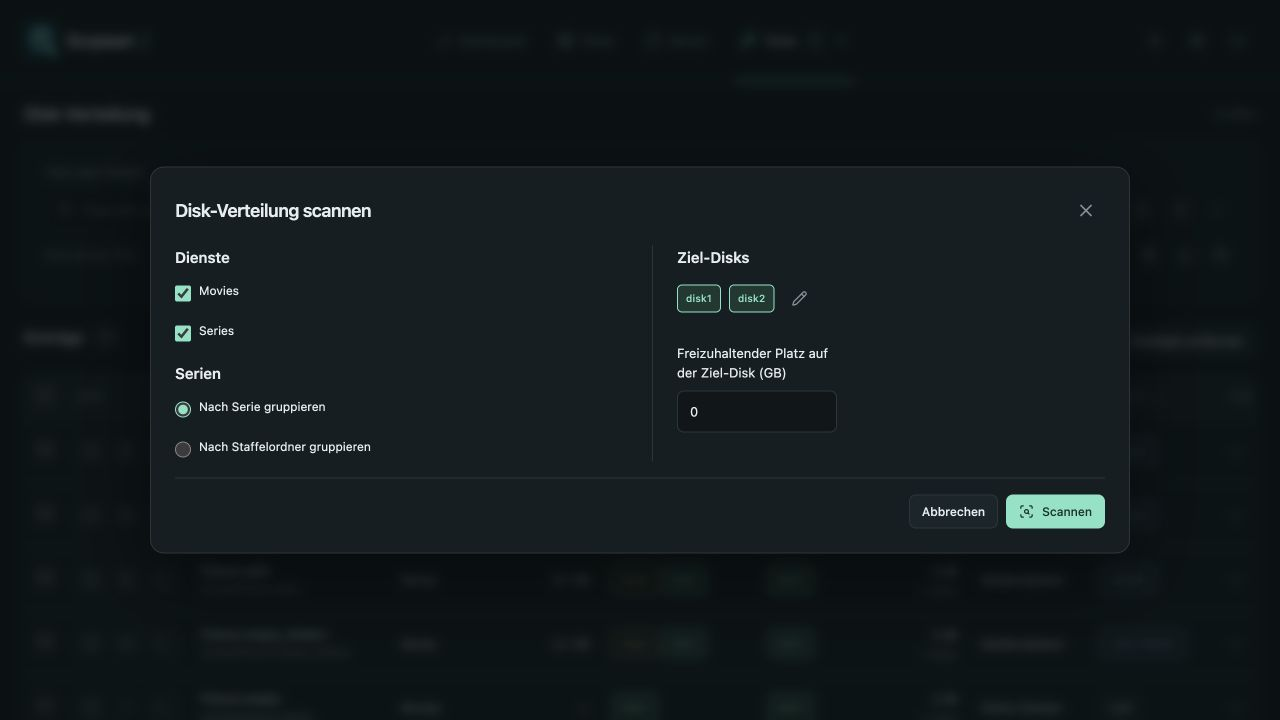
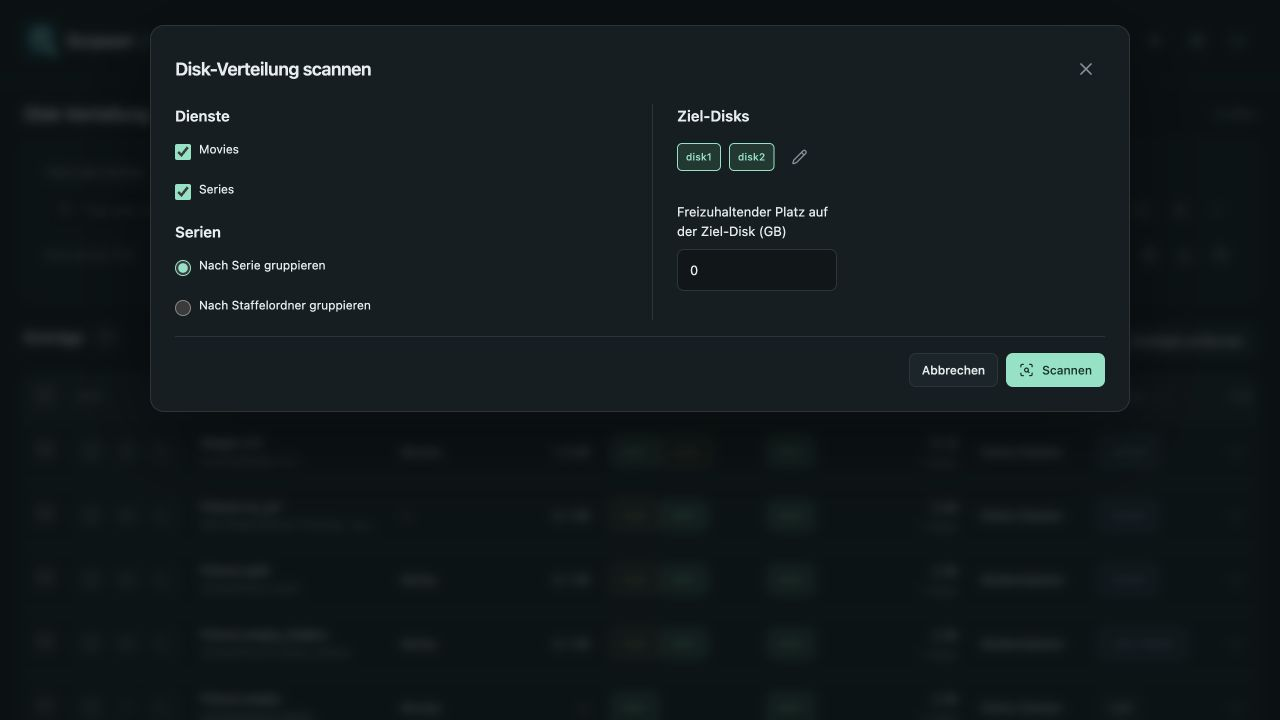
Fit scan dialogs to the visible viewport above mobile keyboards

diff --git a/web/src/dialog-layout.ts b/web/src/dialog-layout.ts
@@ -24,3 +24,35 @@ export function revealDialogTabs(tablist: HTMLElement) {
   if (tabs.top < visible.top || tabs.bottom > visible.bottom)
     tablist.scrollIntoView({ block: "nearest" });
 }
+
+// The keyboard can resize only the visual viewport, leaving dvh unchanged.
+export function trackDialogViewport(dialog: HTMLDialogElement) {
+  const viewport = window.visualViewport;
+  if (!viewport) return () => {};
+  const update = () => {
+    dialog.style.setProperty(
+      "--dialog-viewport-height",
+      `${viewport.height}px`,
+    );
+    dialog.style.setProperty(
+      "--dialog-viewport-top",
+      `${viewport.offsetTop}px`,
+    );
+    const body = dialog.querySelector(".scan-dialog-body");
+    const focused = dialog.ownerDocument.activeElement;
+    if (!body || !focused || !body.contains(focused)) return;
+    const bounds = body.getBoundingClientRect();
+    const input = focused.getBoundingClientRect();
+    if (input.top < bounds.top || input.bottom > bounds.bottom)
+      focused.scrollIntoView({ block: "nearest" });
+  };
+  update();
+  viewport.addEventListener("resize", update);
+  viewport.addEventListener("scroll", update);
+  return () => {
+    viewport.removeEventListener("resize", update);
+    viewport.removeEventListener("scroll", update);
+    dialog.style.removeProperty("--dialog-viewport-height");
+    dialog.style.removeProperty("--dialog-viewport-top");
+  };
+}

diff --git a/web/src/components/Modal.tsx b/web/src/components/Modal.tsx
@@ -3,7 +3,7 @@ import { pushDialog, removeDialog } from "../dialog-stack";
 import { t, useI18n } from "../i18n";
 import { X } from "lucide-preact";
 import { useEffect, useId, useRef } from "preact/hooks";
-import { trackDialogHeight } from "../dialog-layout";
+import { trackDialogHeight, trackDialogViewport } from "../dialog-layout";
 
 export function Modal({
   title,
@@ -13,6 +13,7 @@ export function Modal({
   children,
   wide = false,
   tabs = false,
+  fitViewport = false,
   className = "",
 }: {
   title: string;
@@ -22,6 +23,7 @@ export function Modal({
   children: preact.ComponentChildren;
   wide?: boolean;
   tabs?: boolean;
+  fitViewport?: boolean;
   className?: string;
 }) {
   useI18n();
@@ -32,12 +34,14 @@ export function Modal({
     dialog.showModal();
     pushDialog(dialog);
     const stopTracking = tabs ? trackDialogHeight(dialog) : undefined;
+    const stopViewport = fitViewport ? trackDialogViewport(dialog) : undefined;
     return () => {
+      stopViewport?.();
       stopTracking?.();
       dialog.close();
       removeDialog(dialog);
     };
-  }, [tabs]);
+  }, [tabs, fitViewport]);
   return (
     <dialog
       class={["modal", wide && "wide", tabs && "modal-tabbed", className]

diff --git a/web/src/styles/dialogs.css b/web/src/styles/dialogs.css
@@ -54,6 +54,10 @@
 }
 .modal.scan-dialog {
   width: min(var(--layout-980), calc(100vw - var(--layout-28)));
+  max-height: calc(var(--dialog-viewport-height, 100dvh) - var(--layout-50));
+  top: var(--dialog-viewport-top, 0px);
+  bottom: auto;
+  margin-block: calc(var(--layout-50) / 2) auto;
   overflow: hidden;
 }
 .scan-dialog[open] {

diff --git a/web/src/components/FileCheckScanDialog.tsx b/web/src/components/FileCheckScanDialog.tsx
@@ -96,6 +96,7 @@ export function FileCheckScanDialog({
   return (
     <Modal
       wide
+      fitViewport
       className="scan-dialog"
       title={t("Scan files & permissions")}
       close={close}

diff --git a/web/src/components/PlacementScanDialog.tsx b/web/src/components/PlacementScanDialog.tsx
@@ -54,6 +54,7 @@ export function PlacementScanDialog({
   return (
     <Modal
       wide
+      fitViewport
       title={t("Scan disk placement")}
       close={close}
       closeDisabled={busy}

diff --git a/docs/VALIDATION-1.6.3.md b/docs/VALIDATION-1.6.3.md
@@ -6,7 +6,7 @@ Validated on 2026-10-28 against v1.6.2 (`659fe465968b32ee24ba1c554e961a0fea26ffd
 
 - Docker Go 1.27.3: full `go test -race -timeout=20m ./...` passed; the application package completed in **374.971 s**. Gofmt, Vet and Staticcheck v0.8.2 (`all,-ST*`) passed.
 - Govulncheck v1.8.0 found **zero reachable vulnerabilities**, zero affected imported packages and one uncalled module-level advisory.
-- Frozen pnpm 11.25.0 install, TypeScript, **216 web tests**, production build, moderate-level dependency audit, source/package/Docker/notes version consistency and **7 release-CI tests** passed. The existing Vite advisory about chunks larger than 500 kB remains.
+- Frozen pnpm 11.25.0 install, TypeScript, **218 web tests**, production build, moderate-level dependency audit, source/package/Docker/notes version consistency and **7 release-CI tests** passed. The existing Vite advisory about chunks larger than 500 kB remains.
 - Directory checks preserve names, entry counts and directory mtimes through marking, job checks, rename preview and mapping checks. Access failures EACCES, EROFS and ENOTSUP fail closed, as do unwritable modes and forbidden symlinks. A real read-only Docker bind mount passes the regression. The configured mux workspace still performs and cleans up its explicit write probe. Physical-directory preflight and user-share identification are checked separately.
 - Placement CSV regressions compare literal expected rows for combined status/kind/share/search/target filters, ascending/descending display sort, pagination independence and invalid queries. List and export share filter validation; execution ordering is unchanged.
 - Web regressions run real transpiled components and handlers for commands with/without selection, full long-script Copy/Download payloads, filter-footer order and disabled CSV semantics, measured unsortable Info headings, session height cleanup, conditional tab reveal and scan blocking reasons.
@@ -32,12 +32,16 @@ The actual application ran in an isolated fixture at port 18163 with fake Radarr
 - CSV occupies the filter footer. Searching for no matches renders an inert `span` with role link, `aria-disabled=true` and no href. The commands dialog without selection explains the current-filter count and offers the all-matches download. With selected findings it retains Copy and selected-script Download beside that action. No generated script was executed.
 - File-details outer tabs, MediaInfo Result/General/Video/Audio tabs and placement disk tabs show **0 px** movement between selections. Desktop panels start **16 px** below the tab bar. On phones the MediaInfo date wraps between its bar and panel consistently across sections. A short dialog grows to the larger Overview, retains that height when returning, and starts short again after closing/reopening.
 - At **375×667** and **812×375**, genuine pointer and keyboard tab changes preserve the dialog heading and tab positions; content scrolls within the dialog. The phone height cap uses the same 50 px viewport allowance as the remembered minimum. The automation adapter's focus-and-click operation can center a control by scrolling its parent; direct pointer events and native keyboard events were used to distinguish that adapter behavior from application layout.
-- With Custom values, File-check Scan ends at **656 px** in a 720 px viewport and **686 px** in a 780 px viewport. Placement Scan ends at **528.5/558.5 px** respectively. On phones the body scrolls above the visible footer. Focused UID/GID inputs remain above it at both 667 px and a reduced 400 px viewport height. This models reduced keyboard space; an actual mobile operating-system keyboard was not available in the desktop browser.
+- With Custom values, File-check Scan ends at **642 px** in both 720 px and 780 px viewports. Placement Scan ends at **387 px** in both. On phones the body scrolls above the visible footer. Focused UID/GID inputs remain above it at both 667 px and a reduced 400 px viewport height. A visualViewport lifecycle helper additionally tracks visible height and vertical offset on resize/scroll, keeps focused fields within the body and removes listeners/overrides on close. Regression tests shrink only visual height from 667 to 400 px while leaving innerHeight at 667, then pan offsetTop to 90 px. Both tests failed before the fix and pass afterward. This covers the browser model described by [Chrome’s viewport documentation](https://developer.chrome.com/blog/viewport-resize-behavior/); an actual mobile operating-system keyboard was not available in the desktop browser.
 - Info is visible in placement, file-check and mux table headers in **English, Spanish and Italian**, alongside German. English display-settings Info labels were inspected; all four catalogs and table-label mappings are covered by automated checks.
 
 Synthetic screenshots are in [images/releases/1.6.3](images/releases/1.6.3/), including [compact filters](images/releases/1.6.3/placement-de-light-1440.png), [all-matches commands](images/releases/1.6.3/commands-all-de-dark-1440.png), [laptop scan](images/releases/1.6.3/filecheck-scan-de-dark-1280.png), [phone scan](images/releases/1.6.3/filecheck-scan-de-light-375.png), [landscape tabs](images/releases/1.6.3/mediainfo-de-dark-812.png) and [disk details](images/releases/1.6.3/placement-details-de-dark-375.png).
 
 An actual Unraid shfs/cache share was unavailable. The maintainer's remaining host-specific check is to mark a file on a share with cache enabled and compare `/mnt/cache/<share>` before/after. Automated metadata-preservation, effective-access error and read-only-mount checks cover the local behavior; they cannot certify each shfs/NFS/SMB server's access semantics. Actual write failures continue to fail the job with a reason.
+
+## Final branch review
+
+The independent whole-branch review found one important issue: layout-viewport units alone could leave Scan behind a mobile keyboard. The visualViewport lifecycle fix passed its two RED→GREEN regressions, all 218 web tests, TypeScript/build and renewed browser geometry checks. No critical findings or declined judgments remain. One minor documentation inconsistency is deferred: an older sentence in the Unraid guide still says the Scan report exports CSV, while the control now lives in the filter footer.
 
 ## Container and rollback
 

diff --git a/docs/STYLEGUIDE.md b/docs/STYLEGUIDE.md
@@ -233,7 +233,7 @@ Use the Shared filter panel recipe below. `.results-heading` uses `min-height: v
 
 Use `Modal wide` with `className="scan-dialog"`, at `min(var(--layout-980), calc(100vw - var(--layout-28)))`. `.scan-dialog-grid` has two columns above 900px: Files & permissions places Services/Checks left and Target owner/Target permissions/Fixing right; Placement places Services/TV series left and Target disks right. Use a line border and space-6 inset between columns. At ≤900px stack them and use a horizontal separator. Use space-4 between sections and space-3 within them; headings have no additional margins. Check kinds use `.scan-dialog-checks`, two columns and one at ≤600px. Owner UID/GID remain side by side, each at most layout-160; permission radios use space-2 gaps. Put Custom values fields directly beneath the radio group. Owner defaults come from Unraid settings with a Reset to default text action only when different. Errors remain inside the relevant section or dialog.
 
-The single `.modal-actions` footer stays visible without scrolling: sticky bottom zero, panel background, line separator and nonshrinking controls. Busy/fix reasons sit on its left, Cancel | Scan on its right. Use a flex column on the open dialog, a nonshrinking heading/footer and an independently scrollable `.scan-dialog-body` with zero minimum height and space-4 scroll padding. This keeps scrollable content above the footer, including when custom values or notices are visible. Focused fields must scroll clear of the footer and the mobile on-screen keyboard. Verify Scan is initially visible at 1440×780 and 1280×720; narrow layouts keep a reachable sticky footer. Explain strict permission checking with HelpPopover and link Checks to the Unraid names settings. `dialogs.css` owns this complete scan-dialog recipe.
+The single `.modal-actions` footer stays visible without scrolling: sticky bottom zero, panel background, line separator and nonshrinking controls. Busy/fix reasons sit on its left, Cancel | Scan on its right. Use a flex column on the open dialog, a nonshrinking heading/footer and an independently scrollable `.scan-dialog-body` with zero minimum height and space-4 scroll padding. This keeps scrollable content above the footer, including when custom values or notices are visible. Scan dialogs opt into `Modal fitViewport`: track `visualViewport.height` and `offsetTop` through resize/scroll events while open, remove listeners and CSS overrides on close, and leave CSS viewport units as the fallback. The local geometry properties `--dialog-viewport-height` and `--dialog-viewport-top` hold browser measurements, not design tokens. Anchor at the visible viewport top plus half layout-50; cap height at its height minus layout-50. Focused body fields outside the resulting body bounds scroll into view with nearest alignment, above the footer and the mobile on-screen keyboard. Verify Scan is initially visible at 1440×780 and 1280×720; narrow layouts keep a reachable sticky footer. Explain strict permission checking with HelpPopover and link Checks to the Unraid names settings. `dialogs.css` owns this complete scan-dialog recipe.
 
 ### Settings section
 
